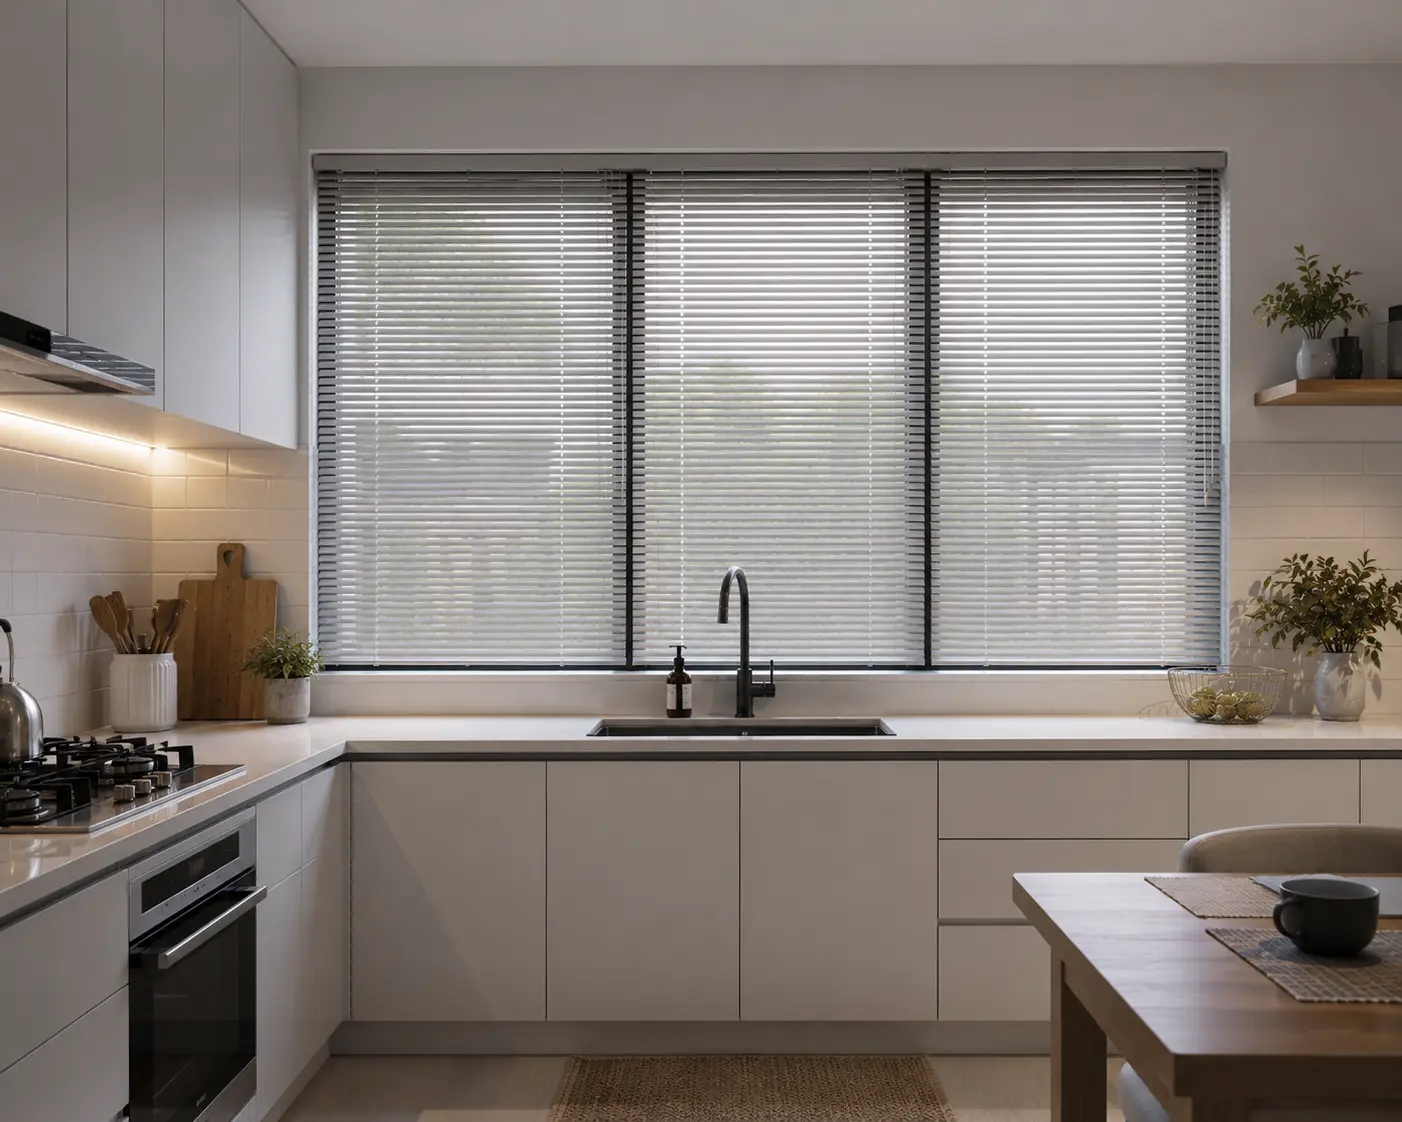
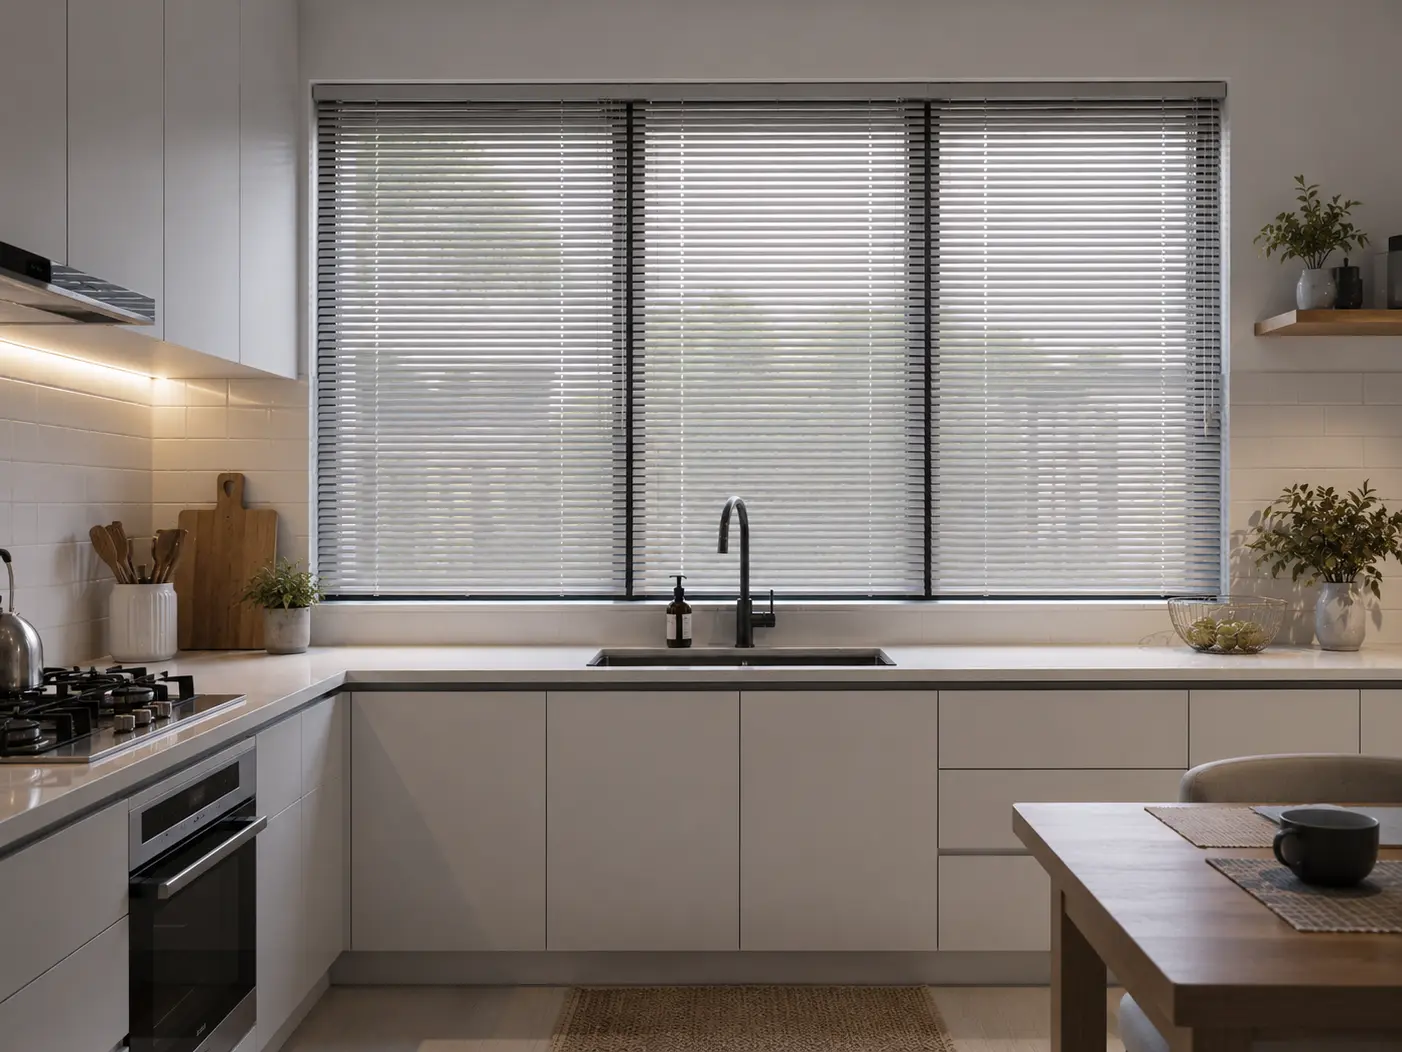
Minor adjustments

diff --git a/products/dividers.html b/products/dividers.html
@@ -22,58 +22,6 @@
 
   <main>
 
-    <section class="title-band">
-      <div class="container">
-        <div class="section-heading fade-in">
-          <h1>ฉากกั้นห้อง</h1>
-          <p>[Placeholder tagline — one line describing the room divider service.]</p>
-        </div>
-      </div>
-    </section>
-
-    <section class="container section">
-      <div class="fade-in content-width">
-        <p>ฉากกั้นห้องเป็นทางเลือกที่ช่วยแบ่งพื้นที่ใช้งานให้เป็นสัดส่วนโดยไม่ต้องก่อสร้างผนังถาวร สามารถเปิด-ปิดและพับเก็บได้ ช่วยเพิ่มความเป็นส่วนตัวและความยืดหยุ่นในการใช้งาน เหมาะสำหรับบ้านพักอาศัย สำนักงาน ร้านค้า โรงเรียน และอาคารพาณิชย์</p>
-        <p>เรามีฉากกั้นหลากหลายรูปแบบให้เลือก ดังนี้</p>
-
-        <h3>ฉากกั้นห้อง PVC</h3>
-        <p>ฉากกั้นห้อง PVC เป็นรูปแบบที่ได้รับความนิยม เนื่องจากมีน้ำหนักเบา แข็งแรง ทนทาน และดูแลรักษาง่าย สามารถพับเก็บได้เมื่อไม่ใช้งาน ช่วยแบ่งพื้นที่ภายในห้องได้อย่างลงตัว เหมาะสำหรับบ้านพักอาศัย สำนักงาน ห้องประชุม ร้านอาหาร และพื้นที่อเนกประสงค์</p>
-        <p>จุดเด่น</p>
-        <ul class="content-list">
-          <li>เปิด-ปิด และพับเก็บได้สะดวก</li>
-          <li>มีสีและลวดลายให้เลือกหลากหลาย</li>
-          <li>ทนต่อความชื้นและทำความสะอาดง่าย</li>
-          <li>ติดตั้งรวดเร็ว ไม่ต้องก่อสร้างเพิ่มเติม</li>
-        </ul>
-
-        <h3>ฉากกั้นห้องญี่ปุ่นแบบกระจก</h3>
-        <p>ฉากกั้นห้องสไตล์ญี่ปุ่นที่ผสมผสานความเรียบง่ายและความทันสมัย ด้วยโครงสร้างอะลูมิเนียมหรือไม้ร่วมกับกระจก ช่วยแบ่งพื้นที่โดยยังคงความโปร่งโล่งและรับแสงธรรมชาติได้ดี เหมาะสำหรับบ้านสไตล์โมเดิร์น มินิมอล ร้านกาแฟ สำนักงาน และพื้นที่พักอาศัยที่ต้องการความสวยงามเป็นพิเศษ</p>
-        <p>จุดเด่น</p>
-        <ul class="content-list">
-          <li>ดีไซน์เรียบหรู สไตล์ญี่ปุ่นร่วมสมัย</li>
-          <li>ช่วยแบ่งพื้นที่โดยไม่ทำให้ห้องดูอึดอัด</li>
-          <li>รับแสงธรรมชาติได้ดี</li>
-          <li>เพิ่มความสวยงามและมูลค่าให้กับพื้นที่</li>
-        </ul>
-
-        <h3>ฉากกั้นแอร์</h3>
-        <p>ฉากกั้นแอร์ช่วยแบ่งพื้นที่เฉพาะส่วนที่ต้องการใช้งานเครื่องปรับอากาศ ช่วยกักเก็บความเย็น ลดการสูญเสียพลังงาน และช่วยให้เครื่องปรับอากาศทำงานได้อย่างมีประสิทธิภาพมากขึ้น</p>
-        <p>เหมาะสำหรับสำนักงาน ร้านอาหาร ร้านค้า โรงงาน โกดังสินค้า และพื้นที่ขนาดใหญ่ที่ต้องการแบ่งโซนการใช้งาน</p>
-        <p>จุดเด่น</p>
-        <ul class="content-list">
-          <li>ช่วยรักษาอุณหภูมิภายในพื้นที่</li>
-          <li>ลดการสูญเสียความเย็นจากเครื่องปรับอากาศ</li>
-          <li>ประหยัดพลังงานและค่าไฟฟ้า</li>
-          <li>ผลิตและติดตั้งตามขนาดพื้นที่จริง</li>
-          <li>เหมาะสำหรับพื้นที่เชิงพาณิชย์และอุตสาหกรรม</li>
-        </ul>
-
-        <p>เราพร้อมให้บริการสำรวจหน้างาน วัดขนาด ออกแบบ ผลิต และติดตั้งโดยทีมงานมืออาชีพ เพื่อให้ได้ฉากกั้นที่สวยงาม แข็งแรง และตอบโจทย์การใช้งานสูงสุด</p>
-
-        <p><a href="../portfolio.html#dividers" class="btn btn--secondary">See divider projects</a></p>
-      </div>
-    </section>
-
   </main>
 
   <div id="footer-placeholder"></div>

diff --git a/products/curtains.html b/products/curtains.html
@@ -6,6 +6,7 @@
   <meta name="viewport" content="width=device-width, initial-scale=1.0">
   <title>ผ้าม่าน กรุงเทพฯ วัดพื้นที่ฟรี | MID Design Studio</title>
   <meta name="description" content="ผ้าม่านบ้าน คอนโด และออฟฟิศ กรุงเทพฯ และทั่วประเทศ ทีมงานประสบการณ์กว่า 20 ปี วัดพื้นที่และประเมินราคาฟรี นัดเข้าดูหน้างานได้เลย">
+  <link rel="canonical" href="https://www.middesign.studio/products/curtains.html">
 
   <link rel="preconnect" href="https://fonts.googleapis.com">
   <link rel="preconnect" href="https://fonts.gstatic.com" crossorigin>
@@ -110,16 +111,14 @@
           </div>
         </div>
 
-        <!--
         <div class="card fade-in">
-          <div class="card-image">Placeholder image</div>
+          <img src="../images/products/curtains/navigation-to-blinds.webp" loading="lazy">
           <div class="card-body">
-            <h3 class="heading-alt">Blinds</h3>
-            <p>Are you looking for blinds?</p>
-            <p><a href="blinds.html" class="btn btn--primary">Go to blinds</a></p>
+            <h3 class="heading-alt">ม่านม่วน มู่ลี่ ม่านปรับแสง (Blinds)</h3>
+            <p>ควบคุมแสงและความเป็นส่วนตัวได้อย่างลงตัว</p>
+            <a href="blinds.html" class="text-link">ดูสินค้า</a>
           </div>
         </div>
-        -->
       </div>
     </section>
 

diff --git a/about.html b/about.html
@@ -7,6 +7,7 @@
   <title>เกี่ยวกับเรา | MID Design Studio</title>
   <meta name="description"
     content="รู้จัก MID Design Studio ทีมงานผู้เชี่ยวชาญด้านผ้าม่าน วอลเปเปอร์ มู่ลี่ และพื้น ประสบการณ์กว่า 20 ปี พร้อมดูแลลูกค้าทุกพื้นที่ทั่วกรุงเทพฯ และทั่วประเทศ">
+  <link rel="canonical" href="https://www.middesign.studio/about.html">
 
   <link rel="preconnect" href="https://fonts.googleapis.com">
   <link rel="preconnect" href="https://fonts.gstatic.com" crossorigin>

diff --git a/contact.html b/contact.html
@@ -6,6 +6,7 @@
   <meta name="viewport" content="width=device-width, initial-scale=1.0">
   <title>Contact | MID Design Studio</title>
   <meta name="description" content="Get in touch with MID Design Studio — phone, email, or send a message.">
+  <link rel="canonical" href="https://www.middesign.studio/contact.html">
 
   <link rel="preconnect" href="https://fonts.googleapis.com">
   <link rel="preconnect" href="https://fonts.gstatic.com" crossorigin>

diff --git a/index.html b/index.html
@@ -6,6 +6,7 @@
   <meta name="viewport" content="width=device-width, initial-scale=1.0">
   <title>ผ้าม่าน มู่ลี่ วอลเปเปอร์ และงานตกแต่งภายใน | MID Design Studio</title>
   <meta name="description" content="ผ้าม่าน มู่ลี่ วอลเปเปอร์ และงานตกแต่งภายในครบวงจร บริการออกแบบ ผลิต และติดตั้งโดยทีมมืออาชีพ ประสบการณ์กว่า 20 ปี">
+  <link rel="canonical" href="https://www.middesign.studio/">
 
   <link rel="preconnect" href="https://fonts.googleapis.com">
   <link rel="preconnect" href="https://fonts.gstatic.com" crossorigin>

diff --git a/portfolio.html b/portfolio.html
@@ -5,6 +5,7 @@
   <meta name="viewport" content="width=device-width, initial-scale=1.0">
   <title>ภาพผลงาน Portfolio | MID Design Studio</title>
   <meta name="description" content="Portfolio">
+  <link rel="canonical" href="https://www.middesign.studio/portfolio.html">
 
   <link rel="preconnect" href="https://fonts.googleapis.com">
   <link rel="preconnect" href="https://fonts.gstatic.com" crossorigin>

diff --git a/products/blinds.html b/products/blinds.html
@@ -7,6 +7,7 @@
   <title>ม่านม้วน มู่ลี่ และม่านปรับแสง | MID Design Studio</title>
   <meta name="description"
     content="รับออกแบบ ผลิต และติดตั้งม่านม้วน มู่ลี่ และม่านปรับแสง สั่งตัดตามขนาด สำหรับบ้าน คอนโด และสำนักงาน โดย MID Design Studio">
+  <link rel="canonical" href="https://www.middesign.studio/products/blinds.html">
 
   <link rel="preconnect" href="https://fonts.googleapis.com">
   <link rel="preconnect" href="https://fonts.gstatic.com" crossorigin>

diff --git a/products/wallpaper.html b/products/wallpaper.html
@@ -7,6 +7,7 @@
   <title>วอลเปเปอร์ กรุงเทพฯ วัดพื้นที่ฟรี | MID Design Studio</title>
   <meta name="description"
     content="วอลเปเปอร์สำหรับบ้าน คอนโด และออฟฟิศ ในกรุงเทพฯ และทั่วประเทศ ด้วยประสบการณ์กว่า 20 ปี ทีมงานมืออาชีพพร้อมให้บริการวัดพื้นที่และประเมินราคาฟรี สามารถนัดเข้าดูหน้างานได้เลย">
+  <link rel="canonical" href="https://www.middesign.studio/products/wallpaper.html">
 
   <link rel="preconnect" href="https://fonts.googleapis.com">
   <link rel="preconnect" href="https://fonts.gstatic.com" crossorigin>

diff --git a/drafts/dividers.md b/drafts/dividers.md
@@ -1,0 +1,48 @@
+# Dividers (ฉากกั้นห้อง) — draft copy
+
+> Extracted from `products/dividers.html` before clearing the page body for
+> a fresh rebuild. Kept here as reference/source material for the real page.
+
+ฉากกั้นห้องเป็นทางเลือกที่ช่วยแบ่งพื้นที่ใช้งานให้เป็นสัดส่วนโดยไม่ต้องก่อสร้างผนังถาวร สามารถเปิด-ปิดและพับเก็บได้ ช่วยเพิ่มความเป็นส่วนตัวและความยืดหยุ่นในการใช้งาน เหมาะสำหรับบ้านพักอาศัย สำนักงาน ร้านค้า โรงเรียน และอาคารพาณิชย์
+
+เรามีฉากกั้นหลากหลายรูปแบบให้เลือก ดังนี้
+
+### ฉากกั้นห้อง PVC
+
+ฉากกั้นห้อง PVC เป็นรูปแบบที่ได้รับความนิยม เนื่องจากมีน้ำหนักเบา แข็งแรง ทนทาน และดูแลรักษาง่าย สามารถพับเก็บได้เมื่อไม่ใช้งาน ช่วยแบ่งพื้นที่ภายในห้องได้อย่างลงตัว เหมาะสำหรับบ้านพักอาศัย สำนักงาน ห้องประชุม ร้านอาหาร และพื้นที่อเนกประสงค์
+
+จุดเด่น
+
+- เปิด-ปิด และพับเก็บได้สะดวก
+- มีสีและลวดลายให้เลือกหลากหลาย
+- ทนต่อความชื้นและทำความสะอาดง่าย
+- ติดตั้งรวดเร็ว ไม่ต้องก่อสร้างเพิ่มเติม
+
+### ฉากกั้นห้องญี่ปุ่นแบบกระจก
+
+ฉากกั้นห้องสไตล์ญี่ปุ่นที่ผสมผสานความเรียบง่ายและความทันสมัย ด้วยโครงสร้างอะลูมิเนียมหรือไม้ร่วมกับกระจก ช่วยแบ่งพื้นที่โดยยังคงความโปร่งโล่งและรับแสงธรรมชาติได้ดี เหมาะสำหรับบ้านสไตล์โมเดิร์น มินิมอล ร้านกาแฟ สำนักงาน และพื้นที่พักอาศัยที่ต้องการความสวยงามเป็นพิเศษ
+
+จุดเด่น
+
+- ดีไซน์เรียบหรู สไตล์ญี่ปุ่นร่วมสมัย
+- ช่วยแบ่งพื้นที่โดยไม่ทำให้ห้องดูอึดอัด
+- รับแสงธรรมชาติได้ดี
+- เพิ่มความสวยงามและมูลค่าให้กับพื้นที่
+
+### ฉากกั้นแอร์
+
+ฉากกั้นแอร์ช่วยแบ่งพื้นที่เฉพาะส่วนที่ต้องการใช้งานเครื่องปรับอากาศ ช่วยกักเก็บความเย็น ลดการสูญเสียพลังงาน และช่วยให้เครื่องปรับอากาศทำงานได้อย่างมีประสิทธิภาพมากขึ้น
+
+เหมาะสำหรับสำนักงาน ร้านอาหาร ร้านค้า โรงงาน โกดังสินค้า และพื้นที่ขนาดใหญ่ที่ต้องการแบ่งโซนการใช้งาน
+
+จุดเด่น
+
+- ช่วยรักษาอุณหภูมิภายในพื้นที่
+- ลดการสูญเสียความเย็นจากเครื่องปรับอากาศ
+- ประหยัดพลังงานและค่าไฟฟ้า
+- ผลิตและติดตั้งตามขนาดพื้นที่จริง
+- เหมาะสำหรับพื้นที่เชิงพาณิชย์และอุตสาหกรรม
+
+### Closing
+
+เราพร้อมให้บริการสำรวจหน้างาน วัดขนาด ออกแบบ ผลิต และติดตั้งโดยทีมงานมืออาชีพ เพื่อให้ได้ฉากกั้นที่สวยงาม แข็งแรง และตอบโจทย์การใช้งานสูงสุด